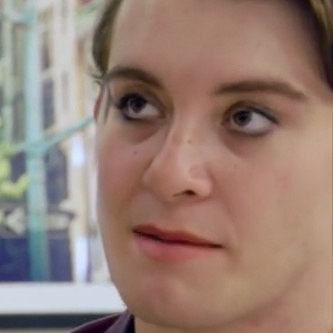
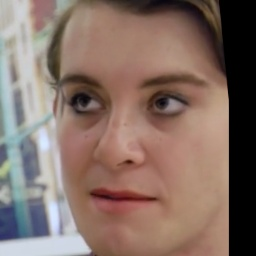
added pixel standardization to cropped frames. essential that all input images are of the same size. This uniformity ensures that the neural network receives consistently formatted data, allowing it to learn features effectively without being confused by varying dimensions.

diff --git a/code/preprocess.py b/code/preprocess.py
@@ -8,7 +8,7 @@ python preprocess.py
     -o <path to output folder, will write one or multiple output videos there>
 
 Original Author: Andreas Rössler
-Editied and modified: Jason Pien
+Editied and modified: Jason Pien & Joey Ricciardulli
 """
 
 
@@ -47,7 +47,7 @@ def get_boundingbox(face, width, height, scale=1.3, minsize=None):
     
     return x1, y1, size_bb
 
-def extract_faces(video_path, output_path, scale=1.3, minsize=None, frame_skip=5):
+def extract_faces(video_path, output_path, scale=1.3, minsize=None, frame_skip=5, target_size=(256,256)):
     
     video_name = os.path.splitext(os.path.basename(video_path))[0]  # Extract the video name without extension to use in output filenames
     print(f'Processing: {video_path}')  # Print which video is currently being processed
@@ -114,7 +114,8 @@ def extract_faces(video_path, output_path, scale=1.3, minsize=None, frame_skip=5
                     x, y, size = get_boundingbox(face2, width, height, scale=scale, minsize=minsize)  # Calculate bounding box
                     cropped_face = centered_face[y:y+size, x:x+size]  # Crop the face from the image
                     save_path = join(output_path, f'{video_name}_frame_{frame_num}_face_{i}.jpg')# Construct the path where the cropped image will be saved
-                    cv2.imwrite(save_path, cropped_face)  # Save the cropped face image
+                    resized_face = cv2.resize(cropped_face, target_size)
+                    cv2.imwrite(save_path, resized_face)  # Save the cropped face image
 
             pbar.update(1)  # Update the progress bar for every processed frame
 
@@ -159,3 +160,4 @@ if __name__ == '__main__':
     else:
         # Process a single video file
         extract_faces(args.video_path, args.output_path, frame_skip=args.frame_skip)
+
